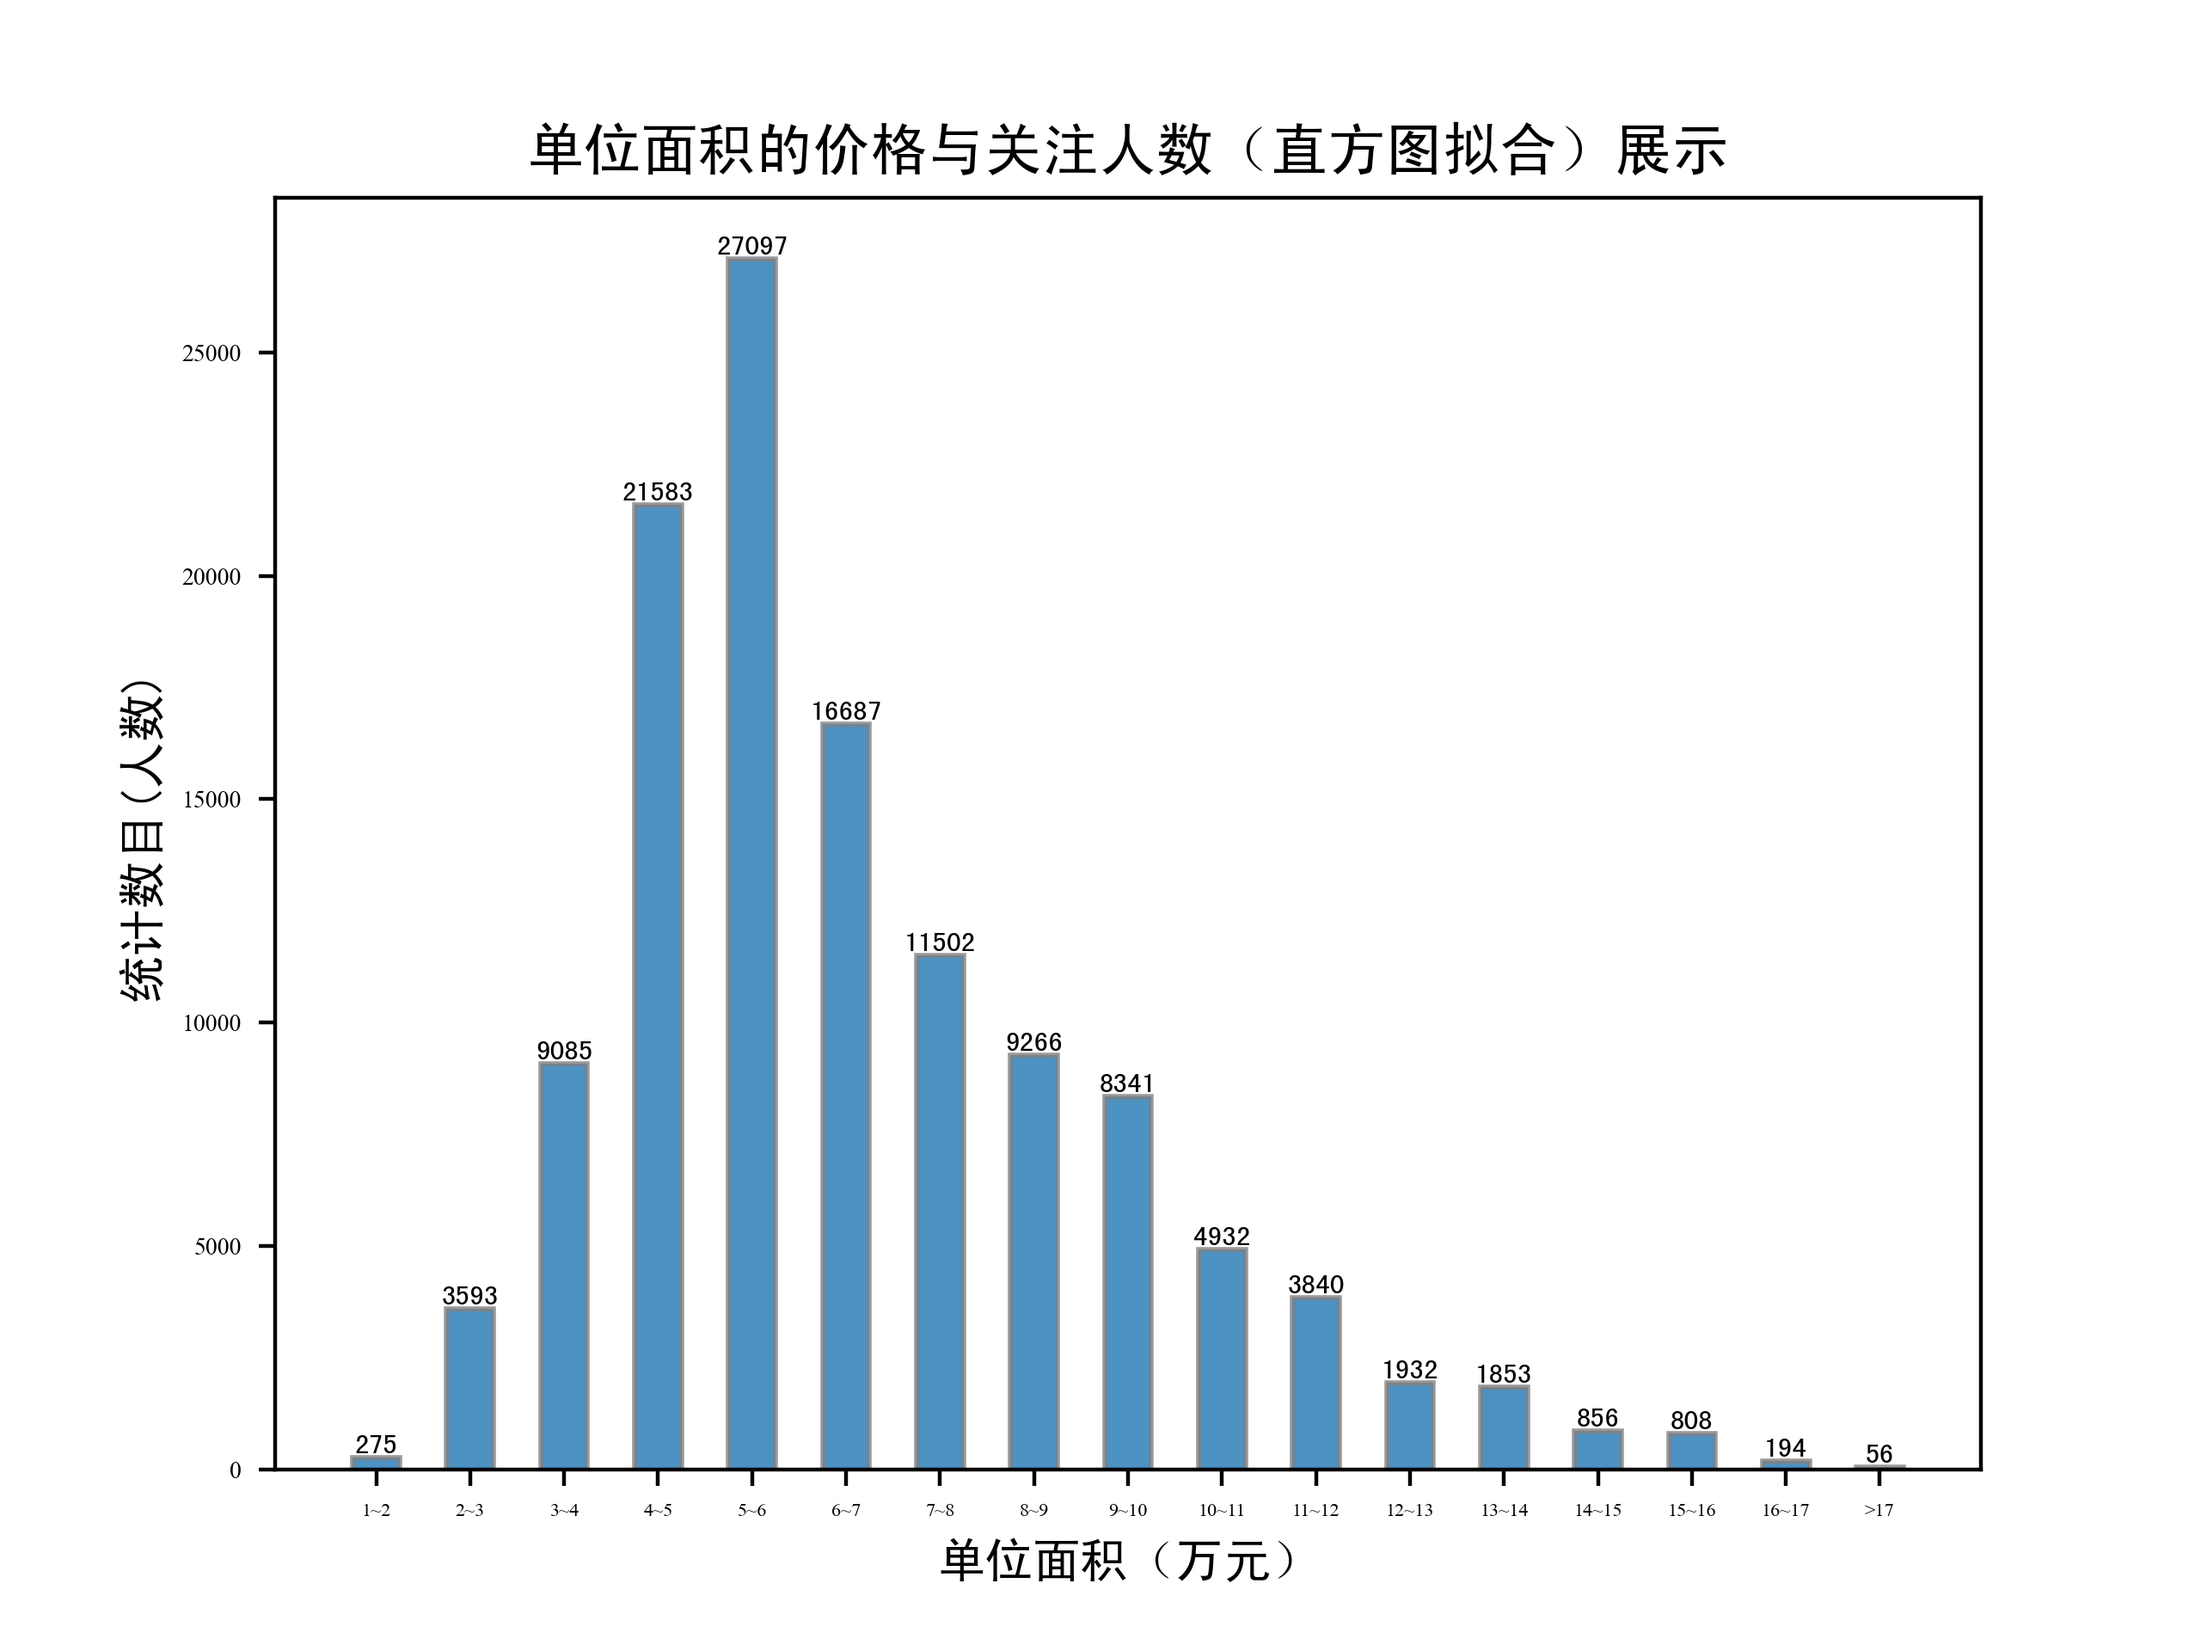
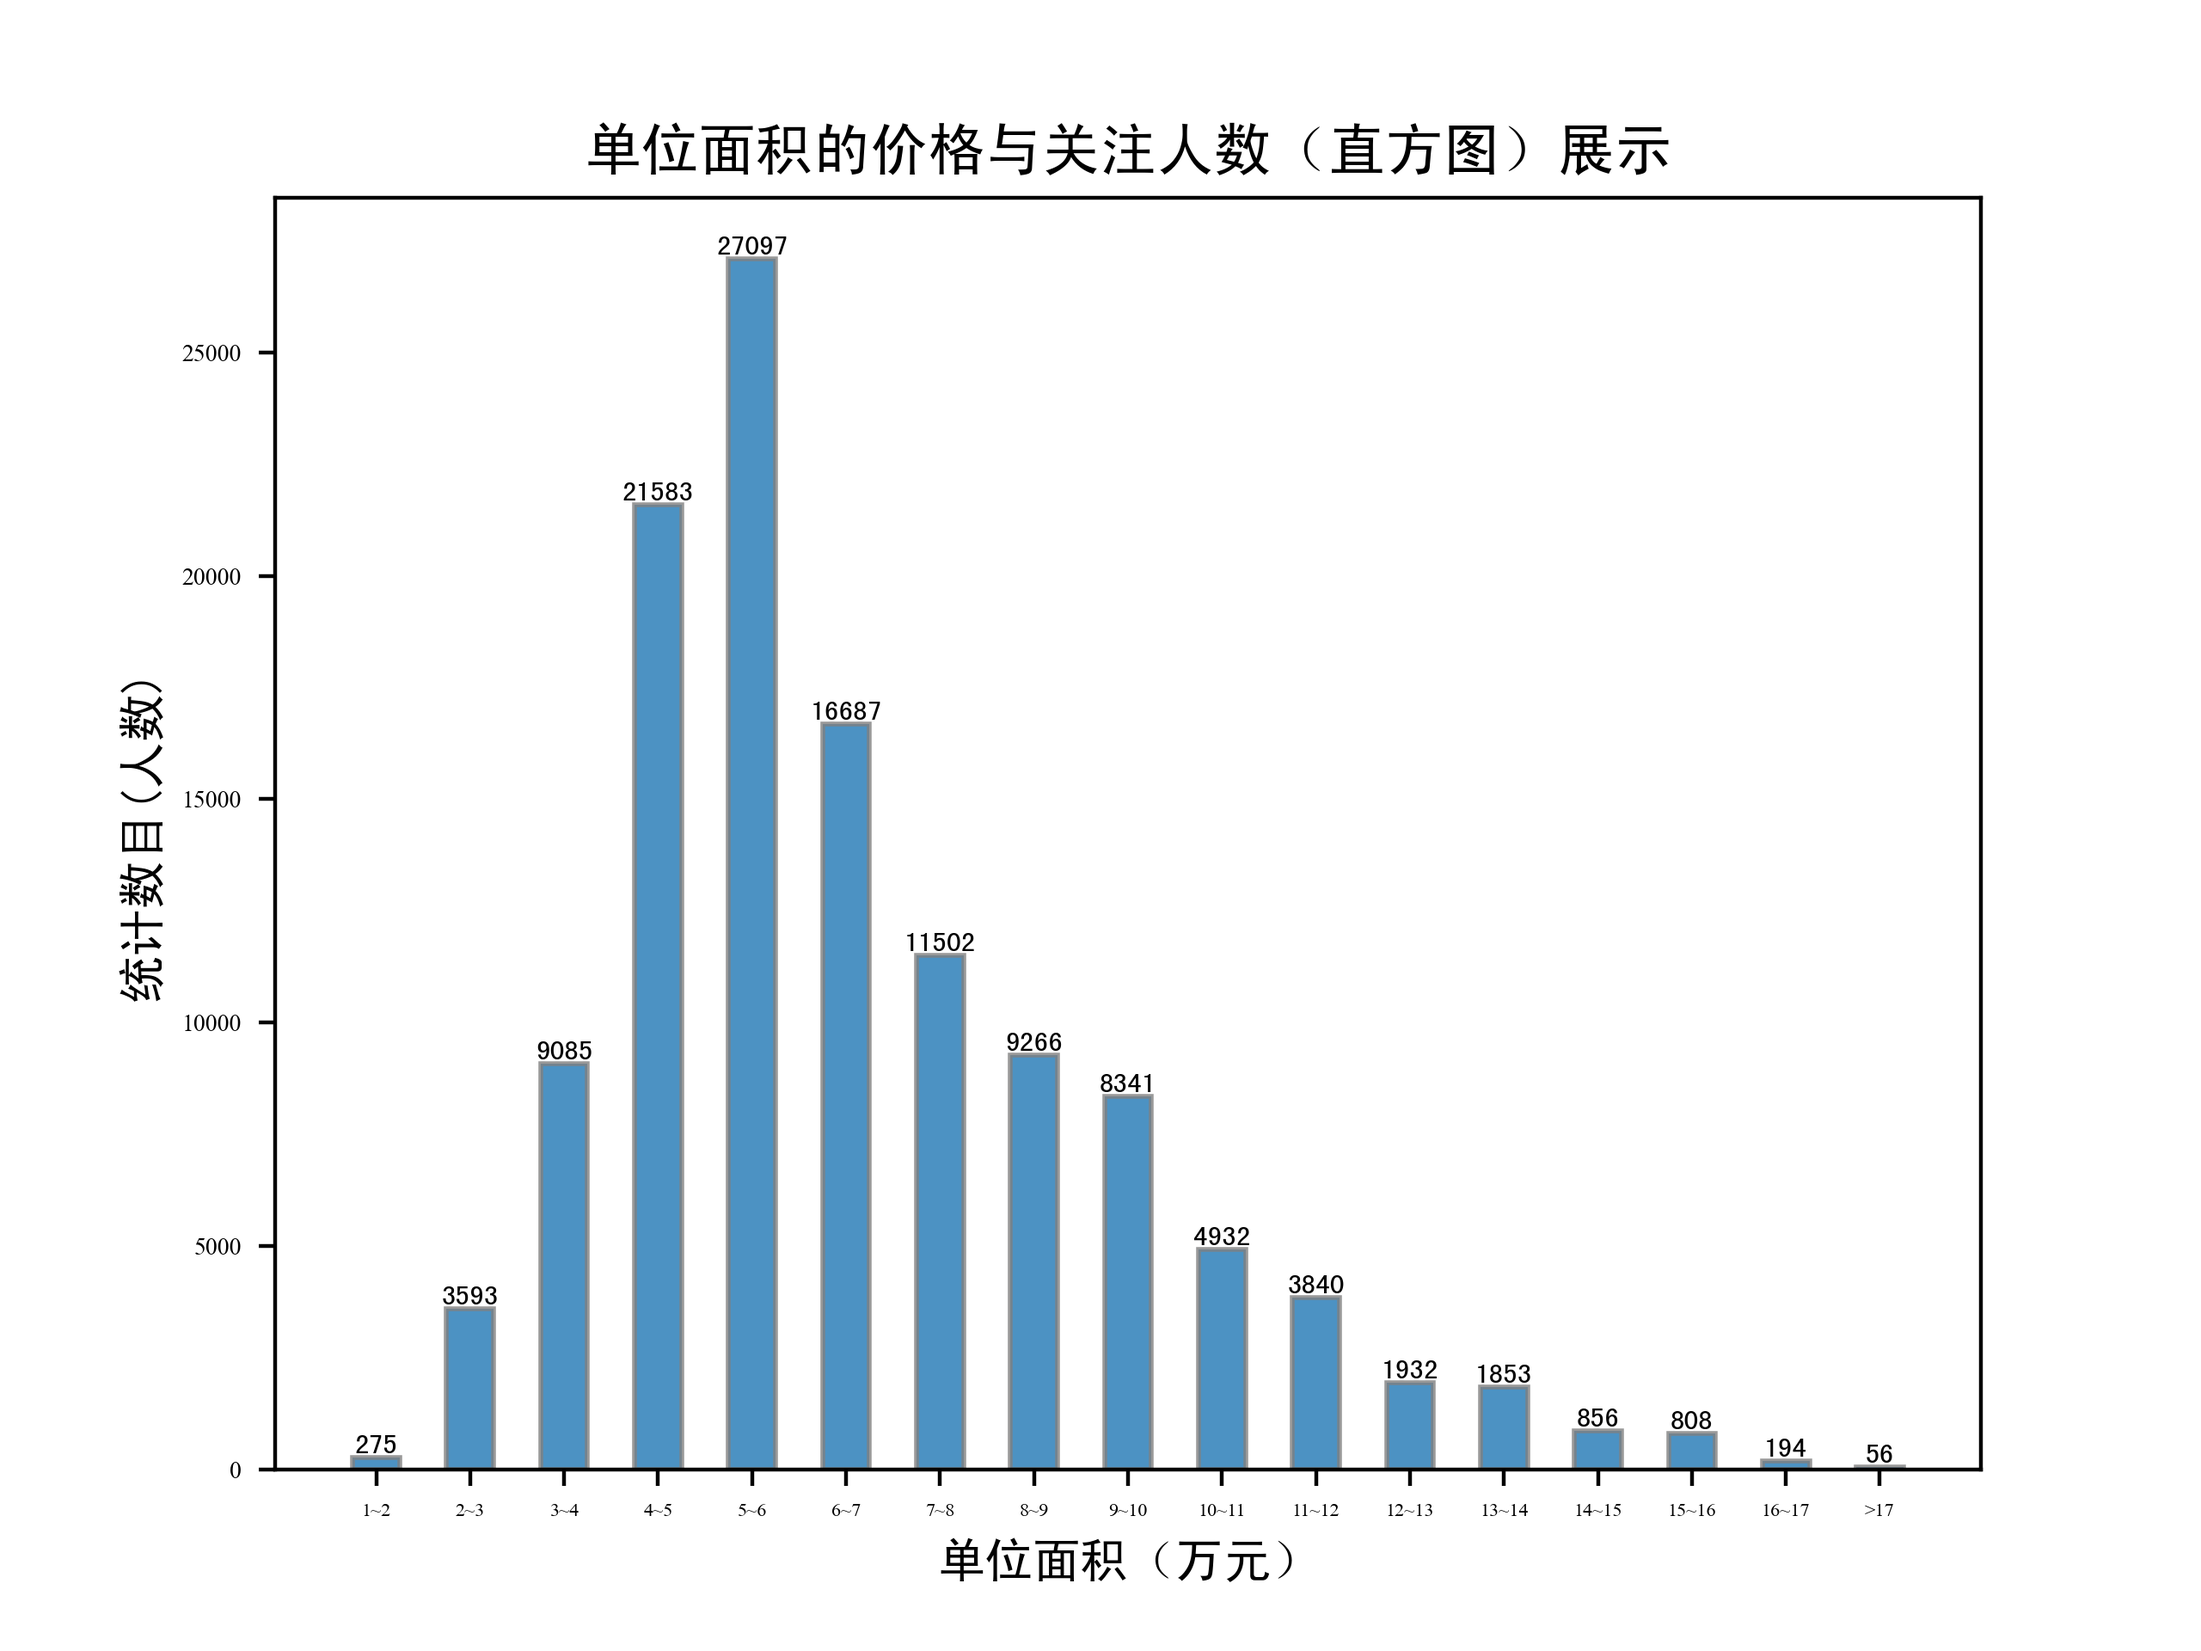
finalgraph

Changed region(s): [[0.25, 0.0625, 0.7812, 0.125]]

diff --git a/ishomework/parses.py b/ishomework/parses.py
@@ -28,12 +28,6 @@ def random_ua():
     return kw
 
 # XPath匹配和输出函数(其中，html为content值)
-def xfind(html,xpaths):
-    # 初步解析函数与解码
-    ans_list=html.xpath(xpaths)
-    # print(ans)
-    item={}
-    for ans in ans_list:
         # 处理字典数据，注意xpath表达式匹配结果是一个列表，因此需要索引[0]提取数据.strip()
         # //*[@id="content"]/div/ul/li
         # title:            .//div/div/a/text()
@@ -42,6 +36,12 @@ def xfind(html,xpaths):
         # price:            .//div/div[@class="unitPrice"]/span/text()
         # follows:          .//div/div[@class="followInfo"]/text()
         # 注意price与location为list
+def xfind(html,xpaths):
+    # 初步解析函数与解码
+    ans_list=html.xpath(xpaths)
+    # print(ans)
+    item={}
+    for ans in ans_list:
         item['title']=ans.xpath('.//div/div/a/text()')[0].strip()
         item['locationa']=ans.xpath('.//div/div/div[@class="positionInfo"]/a[1]/text()')[0].strip()
         item['locationb']=ans.xpath('.//div/div/div[@class="positionInfo"]/a[2]/text()')[0].strip()

diff --git a/opsc7/l13.py b/opsc7/l13.py
@@ -483,7 +483,7 @@ def cbcharts3(df):
     xlists=['1~2','2~3','3~4','4~5','5~6','6~7','7~8','8~9','9~10','10~11','11~12','12~13','13~14','14~15','15~16','16~17','>17']
     resp=plt.bar(xlists, flrlist,0.5,edgecolor='grey',alpha=0.8)  # 条形图函数 bar
     # plt.plot(xarr,yarr,s=0.3,alpha=0.8)
-    plt.title('单位面积的价格与关注人数（直方图拟合）展示')
+    plt.title('单位面积的价格与关注人数（直方图）展示')
     ##############################设置xy轴字体大小 left
     plt.xticks(fontproperties = 'Times New Roman', size = 4)
     plt.yticks(fontproperties = 'Times New Roman', size = 5)
